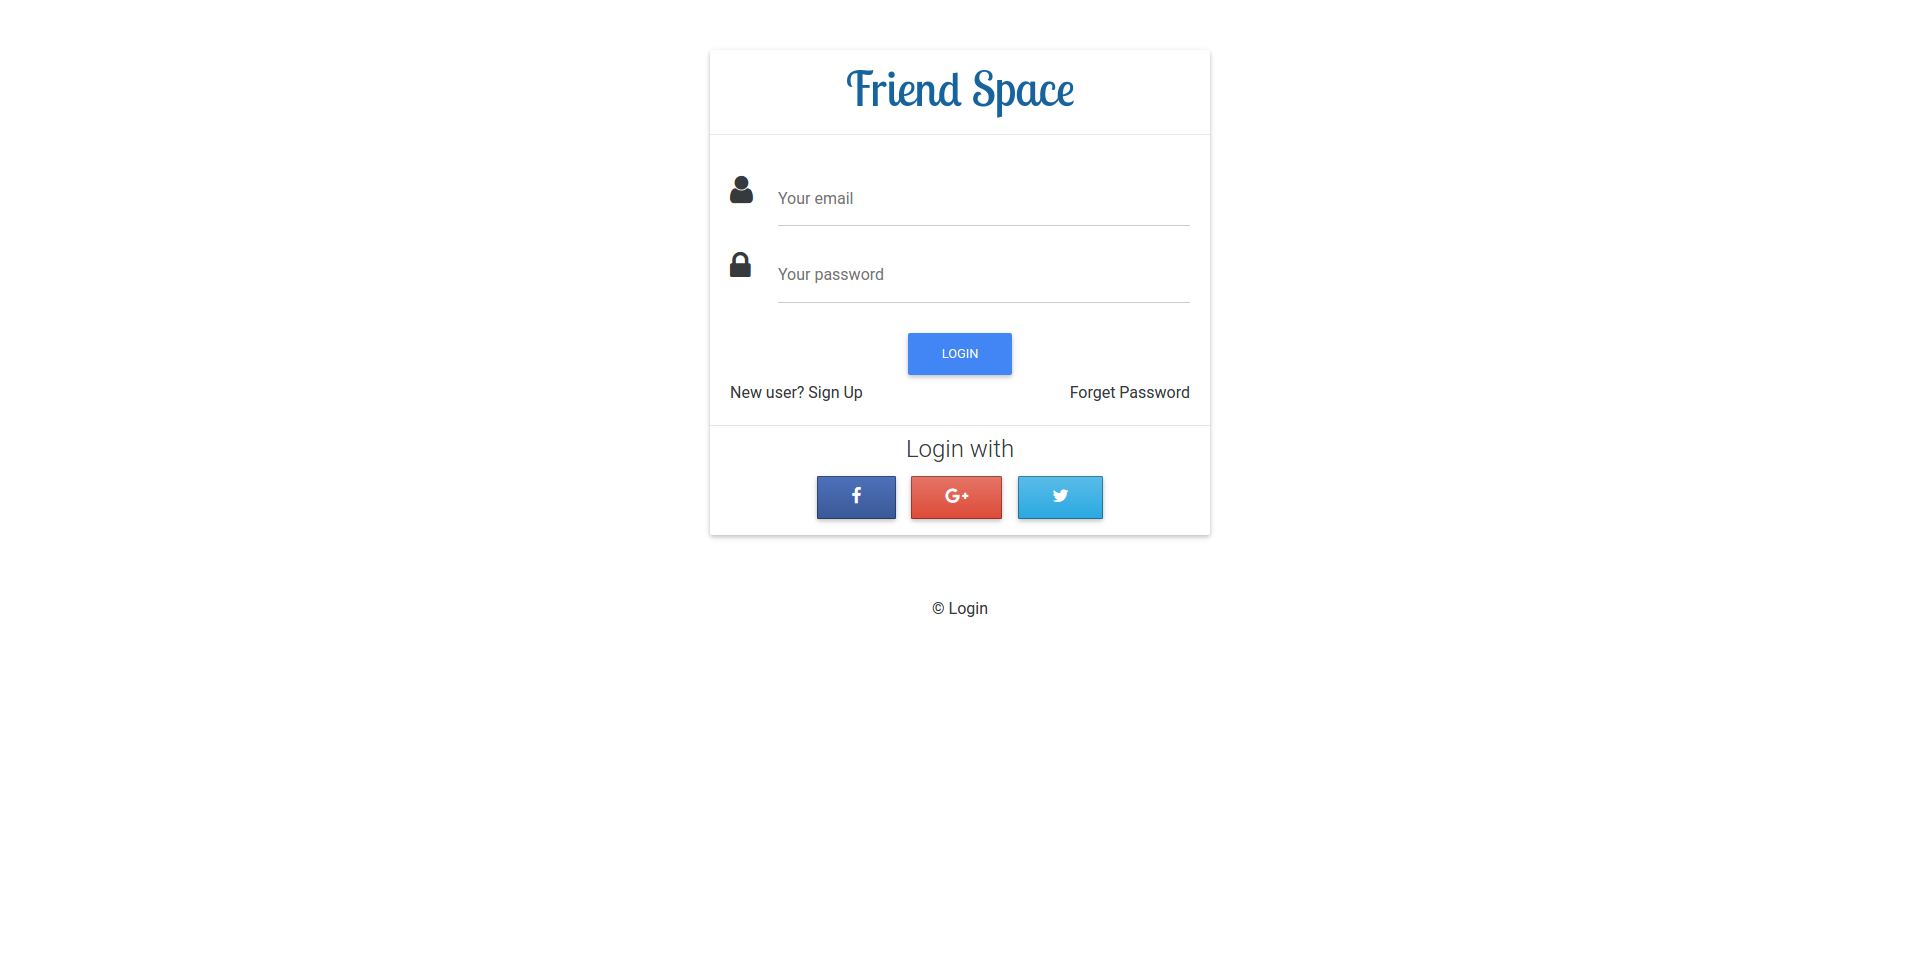
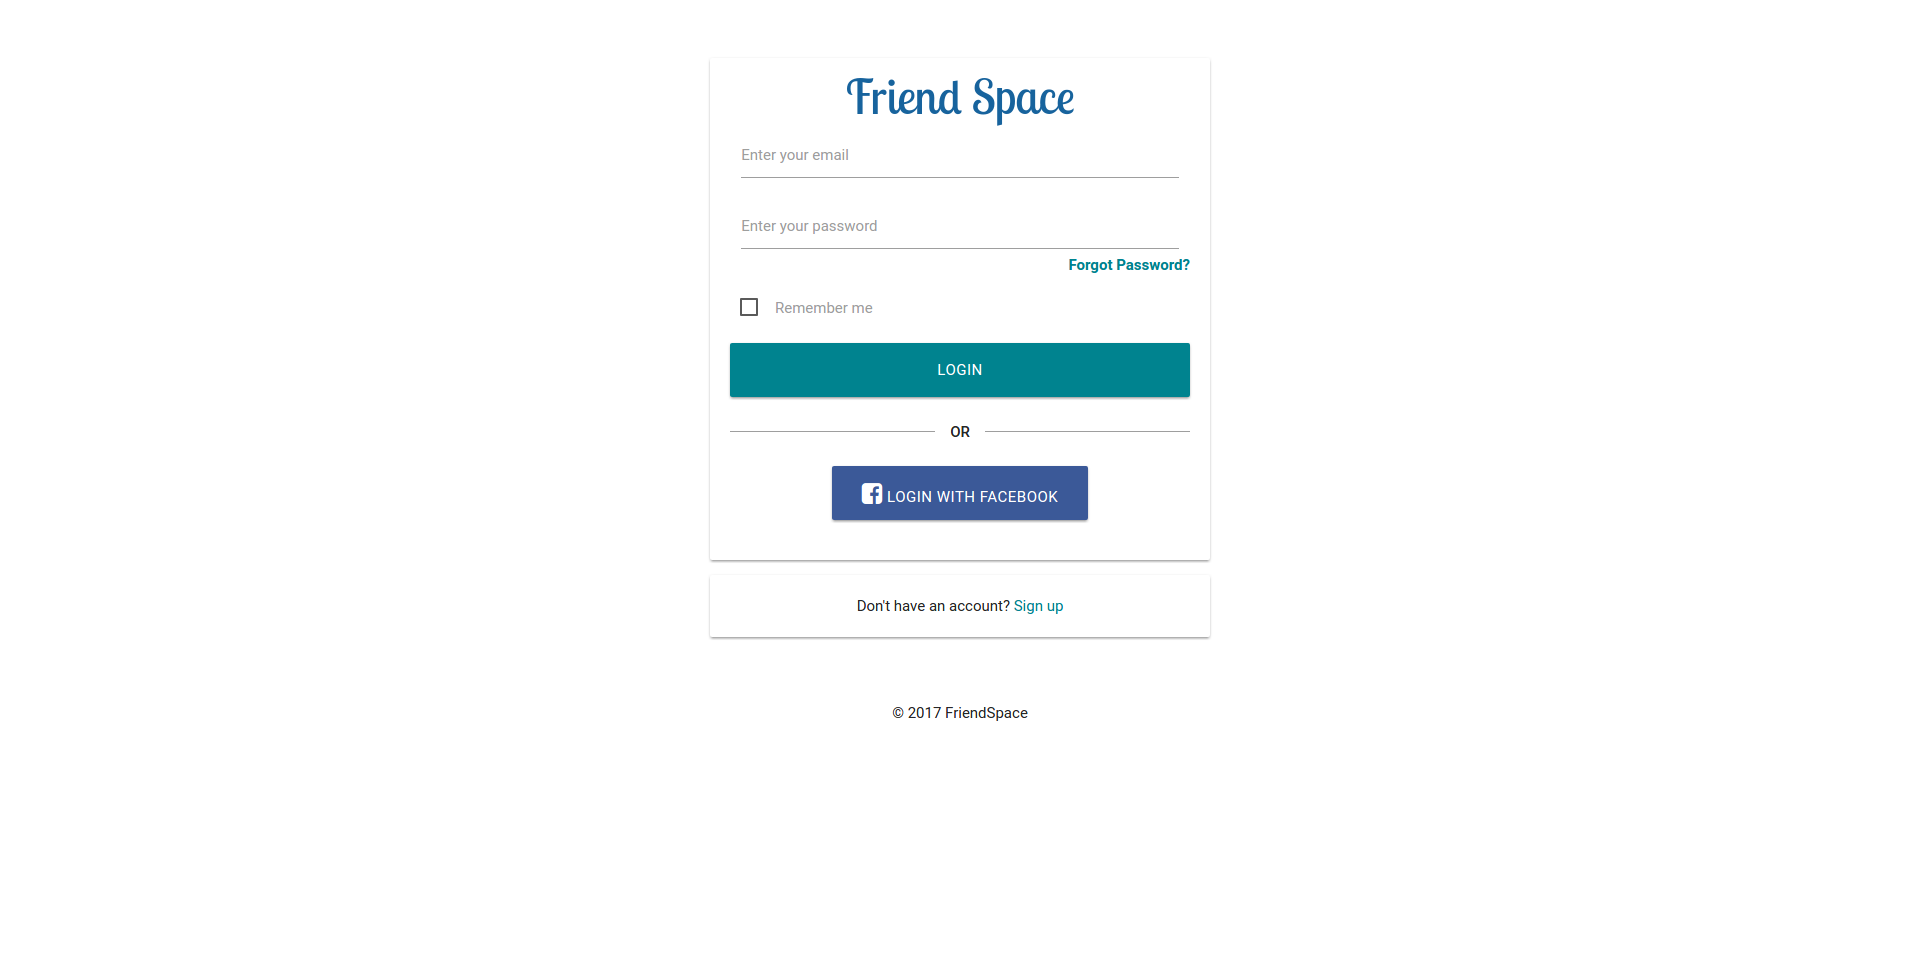
session login

diff --git a/view/assets/js/main.js b/view/assets/js/main.js
@@ -7,12 +7,19 @@ document.addEventListener("DOMContentLoaded", function(){
         .fadeOut();
 });
 
-$('.datepicker').pickadate({
-    selectMonths: true, // Creates a dropdown to control month
-    selectYears: 30, // Creates a dropdown of 15 years to control year
-    min: new Date(1990,1,1),
-    max: new Date(2010,1,1)
+
+$( document ).ready(function() {
+    $('.datepicker').pickadate({
+        format: 'yyyy-mm-dd',
+        selectMonths: true, // Creates a dropdown to control month
+        selectYears: 30, // Creates a dropdown of 15 years to control year
+        min: new Date(1990, 1, 1),
+        max: new Date(2010, 1, 1)
+    });
 });
+
+
+
 $(document).ready(function() {
     $('select').material_select();
 });

diff --git a/view/users/login.php b/view/users/login.php
@@ -7,26 +7,34 @@
             <div class="login-header">
                 <img src="<?php echo $GLOBALS['base_url']; ?>view/assets/img/logo/logo_name.png">
             </div>
+            <?php
+            if(!empty($errors)) {
+                foreach($errors as $message) {
+                    echo "<span class='error'>".$message[0]."</span><br/>";
+                }
+            }
+            ?>
+            <br/>
             <form class="col s12" method="post" action="<?php echo $GLOBALS['base_url']; ?>login">
 
                 <div class='row'>
                     <div class='input-field col s12'>
-                        <input class='validate' type='text' name='username' id='username' />
-                        <label for='username'>Enter your email</label>
+                        <input class='validate' type='email' name='email' id='email' />
+                        <label for='email'>Email or Username</label>
                     </div>
                 </div>
 
                 <div class='row'>
                     <div class='input-field col s12'>
                         <input class='validate' type='password' name='password' id='password' />
-                        <label for='password'>Enter your password</label>
+                        <label for='password'>Password</label>
                     </div>
                     <div class="right-align">
                         <a class='cyan-text text-darken-3' href='<?php echo $GLOBALS['base_url']; ?>login/forgot'><b>Forgot Password?</b></a>
                     </div>
                 </div>
                 <div style="padding-left: 10px">
-                    <input type="checkbox" id="remember" name="remember" />
+                    <input type="checkbox" id="remember" name="remember" onclick="validate()" value="0"/>
                     <label for="remember">Remember me</label>
                 </div>
                 <br />
@@ -41,6 +49,7 @@
                         <a type="button" class="btn btn-large waves-effect btn-fb" href="<?php echo $GLOBALS['base_url']; ?>register?type=facebook"><i class="fa fa-facebook-square"></i> Login with Facebook</a>
                     </div>
                 </center>
+                <input id="remember2" type="hidden" name="remember"/>
             </form>
         </div>
         <div class="card">
@@ -50,7 +59,15 @@
         </div>
 
 
-
+        <script type="text/javascript">
+            function validate() {
+                if (document.getElementById('remember').checked) {
+                    $('#remember2').attr('name', '');
+                } else {
+                    $('#remember2').attr('name', 'remember');
+                }
+            }
+        </script>
 
 
 

diff --git a/model/auth.php b/model/auth.php
@@ -29,7 +29,7 @@ class auth_model extends DBconfig{
     public function update($data) {
         $final_data = array();
         $keys = array_keys($data);
-        $SessionId = $_SESSION["easyphp_sessionid"];
+        $SessionId = $_SESSION["sessionid"];
         $resultRaw = $this->helper->db_select("user_id", "sessions", "WHERE sessionid='$SessionId'");
         $session_array = $resultRaw->fetch_assoc();
         $user_id = $session_array['user_id'];
@@ -56,9 +56,9 @@ class auth_model extends DBconfig{
             $resultRaw = $this->helper->db_select("*", "users", "WHERE email='$email' && password='$password'");
             $result = $resultRaw->fetch_assoc();
             $data = array('sessionid' => $sessionid, 'user_id' => $result['id'], 'device' => $_SERVER['HTTP_USER_AGENT'], 'ip' => $_SERVER['REMOTE_ADDR']);
-            $_SESSION["easyphp_sessionid"] = $sessionid;
+            $_SESSION["sessionid"] = $sessionid;
             if($remember == "1") {
-                $cookie_name = "tutbuzzeasyphpsessionid";
+                $cookie_name = "friendspacecreatedbypcsaini";
                 $cookie_value = $sessionid;
                 setcookie($cookie_name, $cookie_value, time() + (86400 * 30), "/");
             }
@@ -73,7 +73,7 @@ class auth_model extends DBconfig{
     }
 
     public function userDetails() {
-        $SessionId = $_SESSION["easyphp_sessionid"];
+        $SessionId = $_SESSION["sessionid"];
         $resultRaw = $this->helper->db_select("user_id", "sessions", "WHERE sessionid='$SessionId'");
         $session_array = $resultRaw->fetch_assoc();
         $user_id = $session_array['user_id'];
@@ -83,12 +83,12 @@ class auth_model extends DBconfig{
     }
 
     public function deleteSession() {
-        $SessionId = $_SESSION["easyphp_sessionid"];
+        $SessionId = $_SESSION["sessionid"];
         $result = $this->helper->db_delete("sessions", "WHERE sessionid='$SessionId'");
         $_SESSION['redirecturl'] = "";
         session_destroy();
-        if(!isset($_SESSION["easyphp_sessionid"]) || $result) {
-            header("Location: ".$GLOBALS['ep_dynamic_url']."login");
+        if(!isset($_SESSION["sessionid"]) || $result) {
+            header("Location: ".$GLOBALS['dynamic_url']."login");
             die();
         }
     }

diff --git a/controller/register.php b/controller/register.php
@@ -14,6 +14,17 @@ class register {
         $this->model = new auth_model();
     }
     public function index(){
+        if(isset($_SESSION["sessionid"])) {
+            $ifSessionExists = $this->model->checksession($_SESSION["sessionid"]);
+            if($ifSessionExists) {
+                header("Location: ".$GLOBALS['dynamic_url']."home");
+                die();
+            }
+        }
+        if(isset($_GET['redirecturl'])) {
+            $_SESSION['redirecturl'] = $_GET['redirecturl'];
+        }
+
         $fb = new Facebook\Facebook([
             'app_id' => FB_APP_ID,
             'app_secret' => FB_APP_SECRET,
@@ -60,24 +71,13 @@ class register {
             $fb_data['location'] = $userNode->getLocation();
             $fb_data['register_status'] = '1';
             if ($this->fbIdExists($fb_data['fb_id'])){
-                header("Location: ".$GLOBALS['dynamic_url']."home");
+                //header("Location: ".$GLOBALS['dynamic_url']."home");
+                //$this->loginWithFb
             } else{
                 $result = $this->model->register($fb_data);
-                header("Location: ".$GLOBALS['dynamic_url']."home");
+                //header("Location: ".$GLOBALS['dynamic_url']."home");
                 die();
             }
-        }
-
-
-        if(isset($_SESSION["easyphp_sessionid"])) {
-            $ifSessionExists = $this->model->checksession($_SESSION["easyphp_sessionid"]);
-            if($ifSessionExists) {
-                header("Location: ".$GLOBALS['dynamic_url']."home");
-                die();
-            }
-        }
-        if(isset($_GET['redirecturl'])) {
-            $_SESSION['redirecturl'] = $_GET['redirecturl'];
         }
 
         if (!empty($_POST)) {

diff --git a/controller/login.php b/controller/login.php
@@ -14,6 +14,27 @@ class login{
         $this->model = new auth_model();
     }
     public function index(){
+        if(isset($_SESSION["sessionid"])) {
+            $ifSessionExists = $this->model->checksession($_SESSION["sessionid"]);
+            if($ifSessionExists) {
+                header("Location: ".$GLOBALS['dynamic_url']."home");
+                die();
+            }
+        }
+        else if(isset($_COOKIE['friendspacecreatedbypcsaini'])) {
+            $ifCookieExists = $this->model->checksession($_COOKIE['friendspacecreatedbypcsaini']);
+            if($ifCookieExists) {
+                $_SESSION["sessionid"] = $_COOKIE['friendspacecreatedbypcsaini'];
+                header("Location: ".$GLOBALS['dynamic_url']."home");
+                die();
+            }
+        }
+        else {
+            $_SESSION["sessionid"] = "";
+        }
+        if(isset($_GET['redirecturl'])) {
+            $_SESSION['redirecturl'] = $_GET['redirecturl'];
+        }
         if (!empty($_POST)) {
             $data['post'] = $_POST;
             $email = $_POST['email'];

diff --git a/view/users/register.php b/view/users/register.php
@@ -38,7 +38,7 @@
                 <div class='row'>
                     <div class='input-field col s12'>
                         <label class="active" for="dob">Date of Birth</label>
-                        <input class='validate datepicker' type='date' name='dob' id='dob' placeholder="DD/MM/YYYY" />
+                        <input class='datepicker' type='date' name='dob' id='dob' placeholder="DD/MM/YYYY"/>
                     </div>
                 </div>
 
@@ -47,8 +47,8 @@
                         <label class="active" for="gender"></label>
                         <select class="validate" name="gender" id="gender">
                             <option value="" disabled selected>Gender</option>
-                            <option value="1">Male</option>
-                            <option value="2">Female</option>
+                            <option value="m">Male</option>
+                            <option value="f">Female</option>
                         </select>
 
                     </div>

diff --git a/model/authcheck.php b/model/authcheck.php
@@ -14,8 +14,8 @@ class authcheck{
         $this->helper = new helper();
 
         $actual_link = "http://$_SERVER[HTTP_HOST]$_SERVER[REQUEST_URI]";
-        if(isset($_SESSION["easyphp_sessionid"])) {
-            $result = $this->model->checksession($_SESSION["easyphp_sessionid"]);
+        if(isset($_SESSION["sessionid"])) {
+            $result = $this->model->checksession($_SESSION["sessionid"]);
             if($result) {
                 $this->$result = $result;
             }

diff --git a/library/function.php b/library/function.php
@@ -45,9 +45,10 @@ if(!$GLOBALS['dynamic_url']) {
 if(!$GLOBALS['hostname'] || !$GLOBALS['username'] || !$GLOBALS['database']) {
     echo "<div style='background: red; color: yellow; padding: 20px;'> set database fields - Please go to library/config.php to set </div>";
 }
-
+/*    include Library   */
 include "library/Facebook/autoload.php";
 include "library/phpmailer/PHPMailerAutoload.php";
+
 include "library/database.php";
 
 

diff --git a/controller/logout.php b/controller/logout.php
@@ -14,7 +14,10 @@ class logout{
     }
 
     public function index(){
-        session_destroy();
-        header("location: ".$GLOBALS['dynamic_url']."login");
+        $this->model->deleteSession();
+        $data['ep_title'] = "Logout";
+        $data['view_page'] = "false";
+        $data['ep_header'] = "false";
+        $data['ep_footer'] = "false";
     }
 }

diff --git a/model/home.php b/model/home.php
@@ -1,0 +1,15 @@
+<?php
+/**
+ * Created by PhpStorm.
+ * User: pcsaini
+ * Date: 31/1/17
+ * Time: 12:35 PM
+ */
+class home_model extends DBconfig {
+
+    public function __construct()
+    {
+        $connection = new DBconfig();
+        $this->connection = $connection->connectToDatabase();
+    }
+}

diff --git a/controller/home.php b/controller/home.php
@@ -11,6 +11,7 @@ class home extends authcheck{
     {
         $this->model = new auth_model();
         $this->authcheck = new authcheck();
+        $this->sessionid = $_SESSION["sessionid"];
     }
     public function index(){
         $userdata = $this->model->userDetails();

diff --git a/view/users/home.php b/view/users/home.php
@@ -5,11 +5,8 @@
  * Date: 8/12/16
  * Time: 3:53 AM
  */
-
-echo "hello ";
-echo $userdata['username'];
-echo "<br>";
-echo $userdata['email'];
-echo "<br>";
-echo $userdata['name'];
+echo "welcome sir";
+echo '<pr>';
+print_r($userdata);
+echo '</pr>';
 ?>
